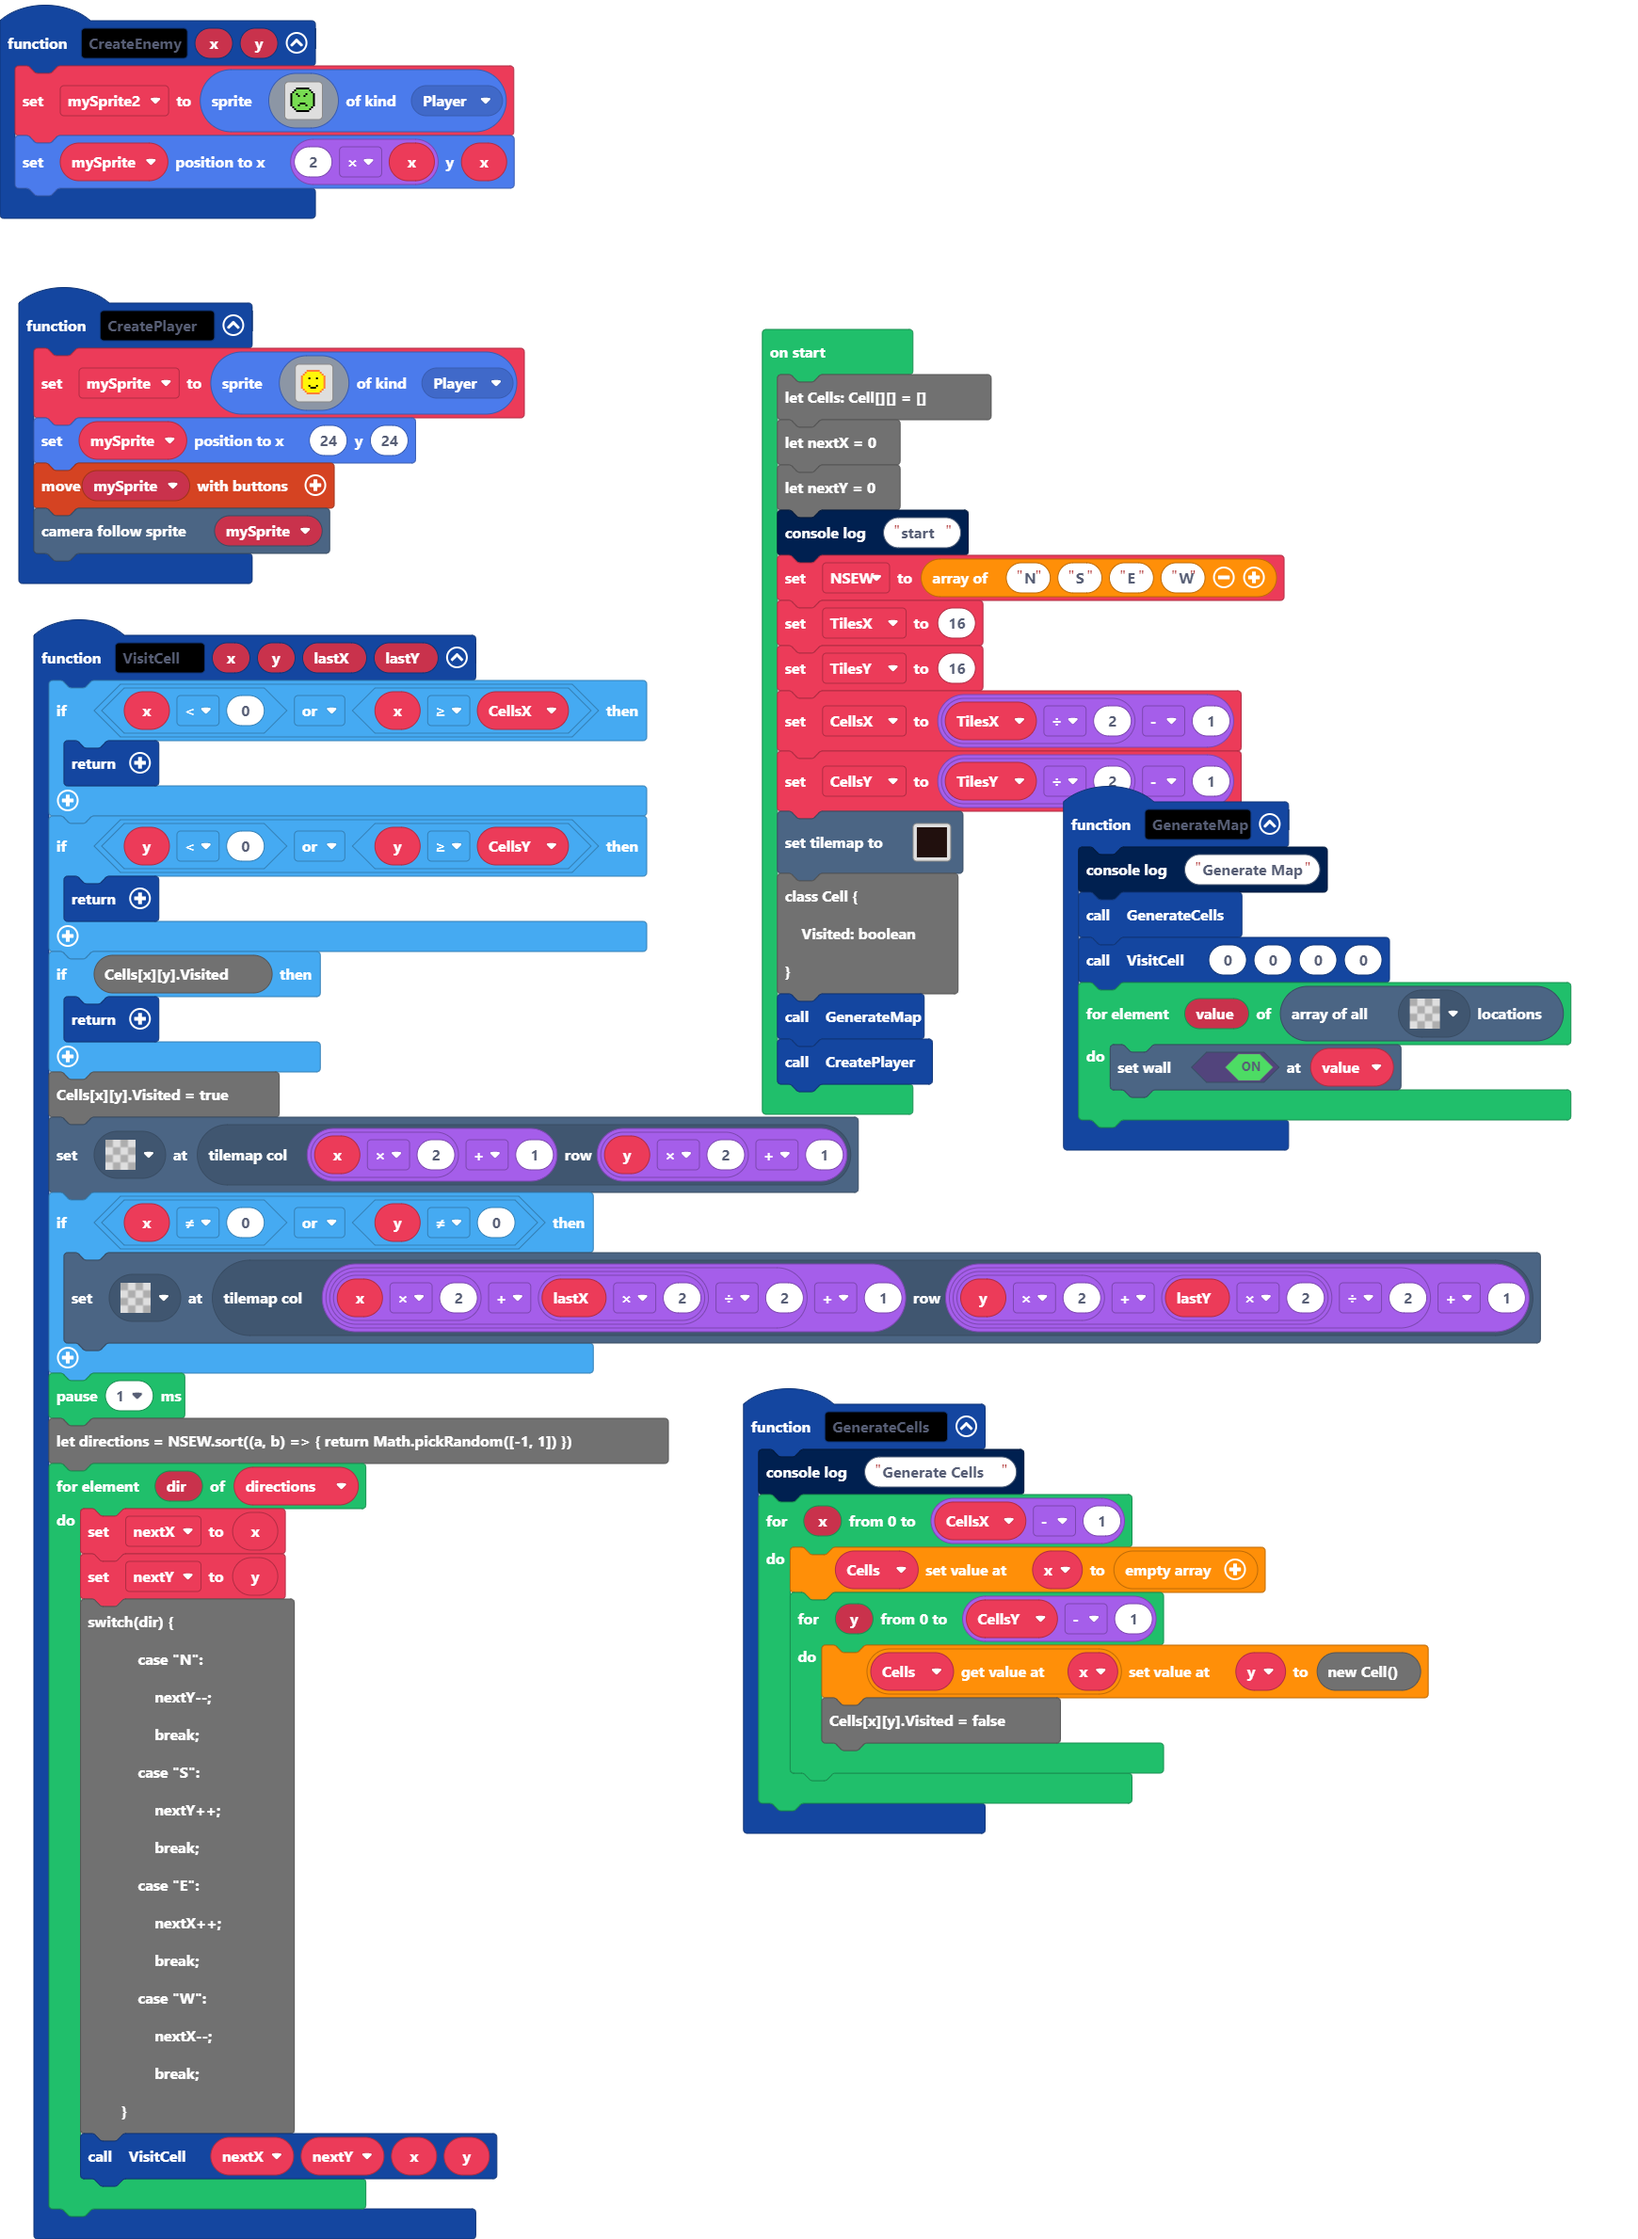
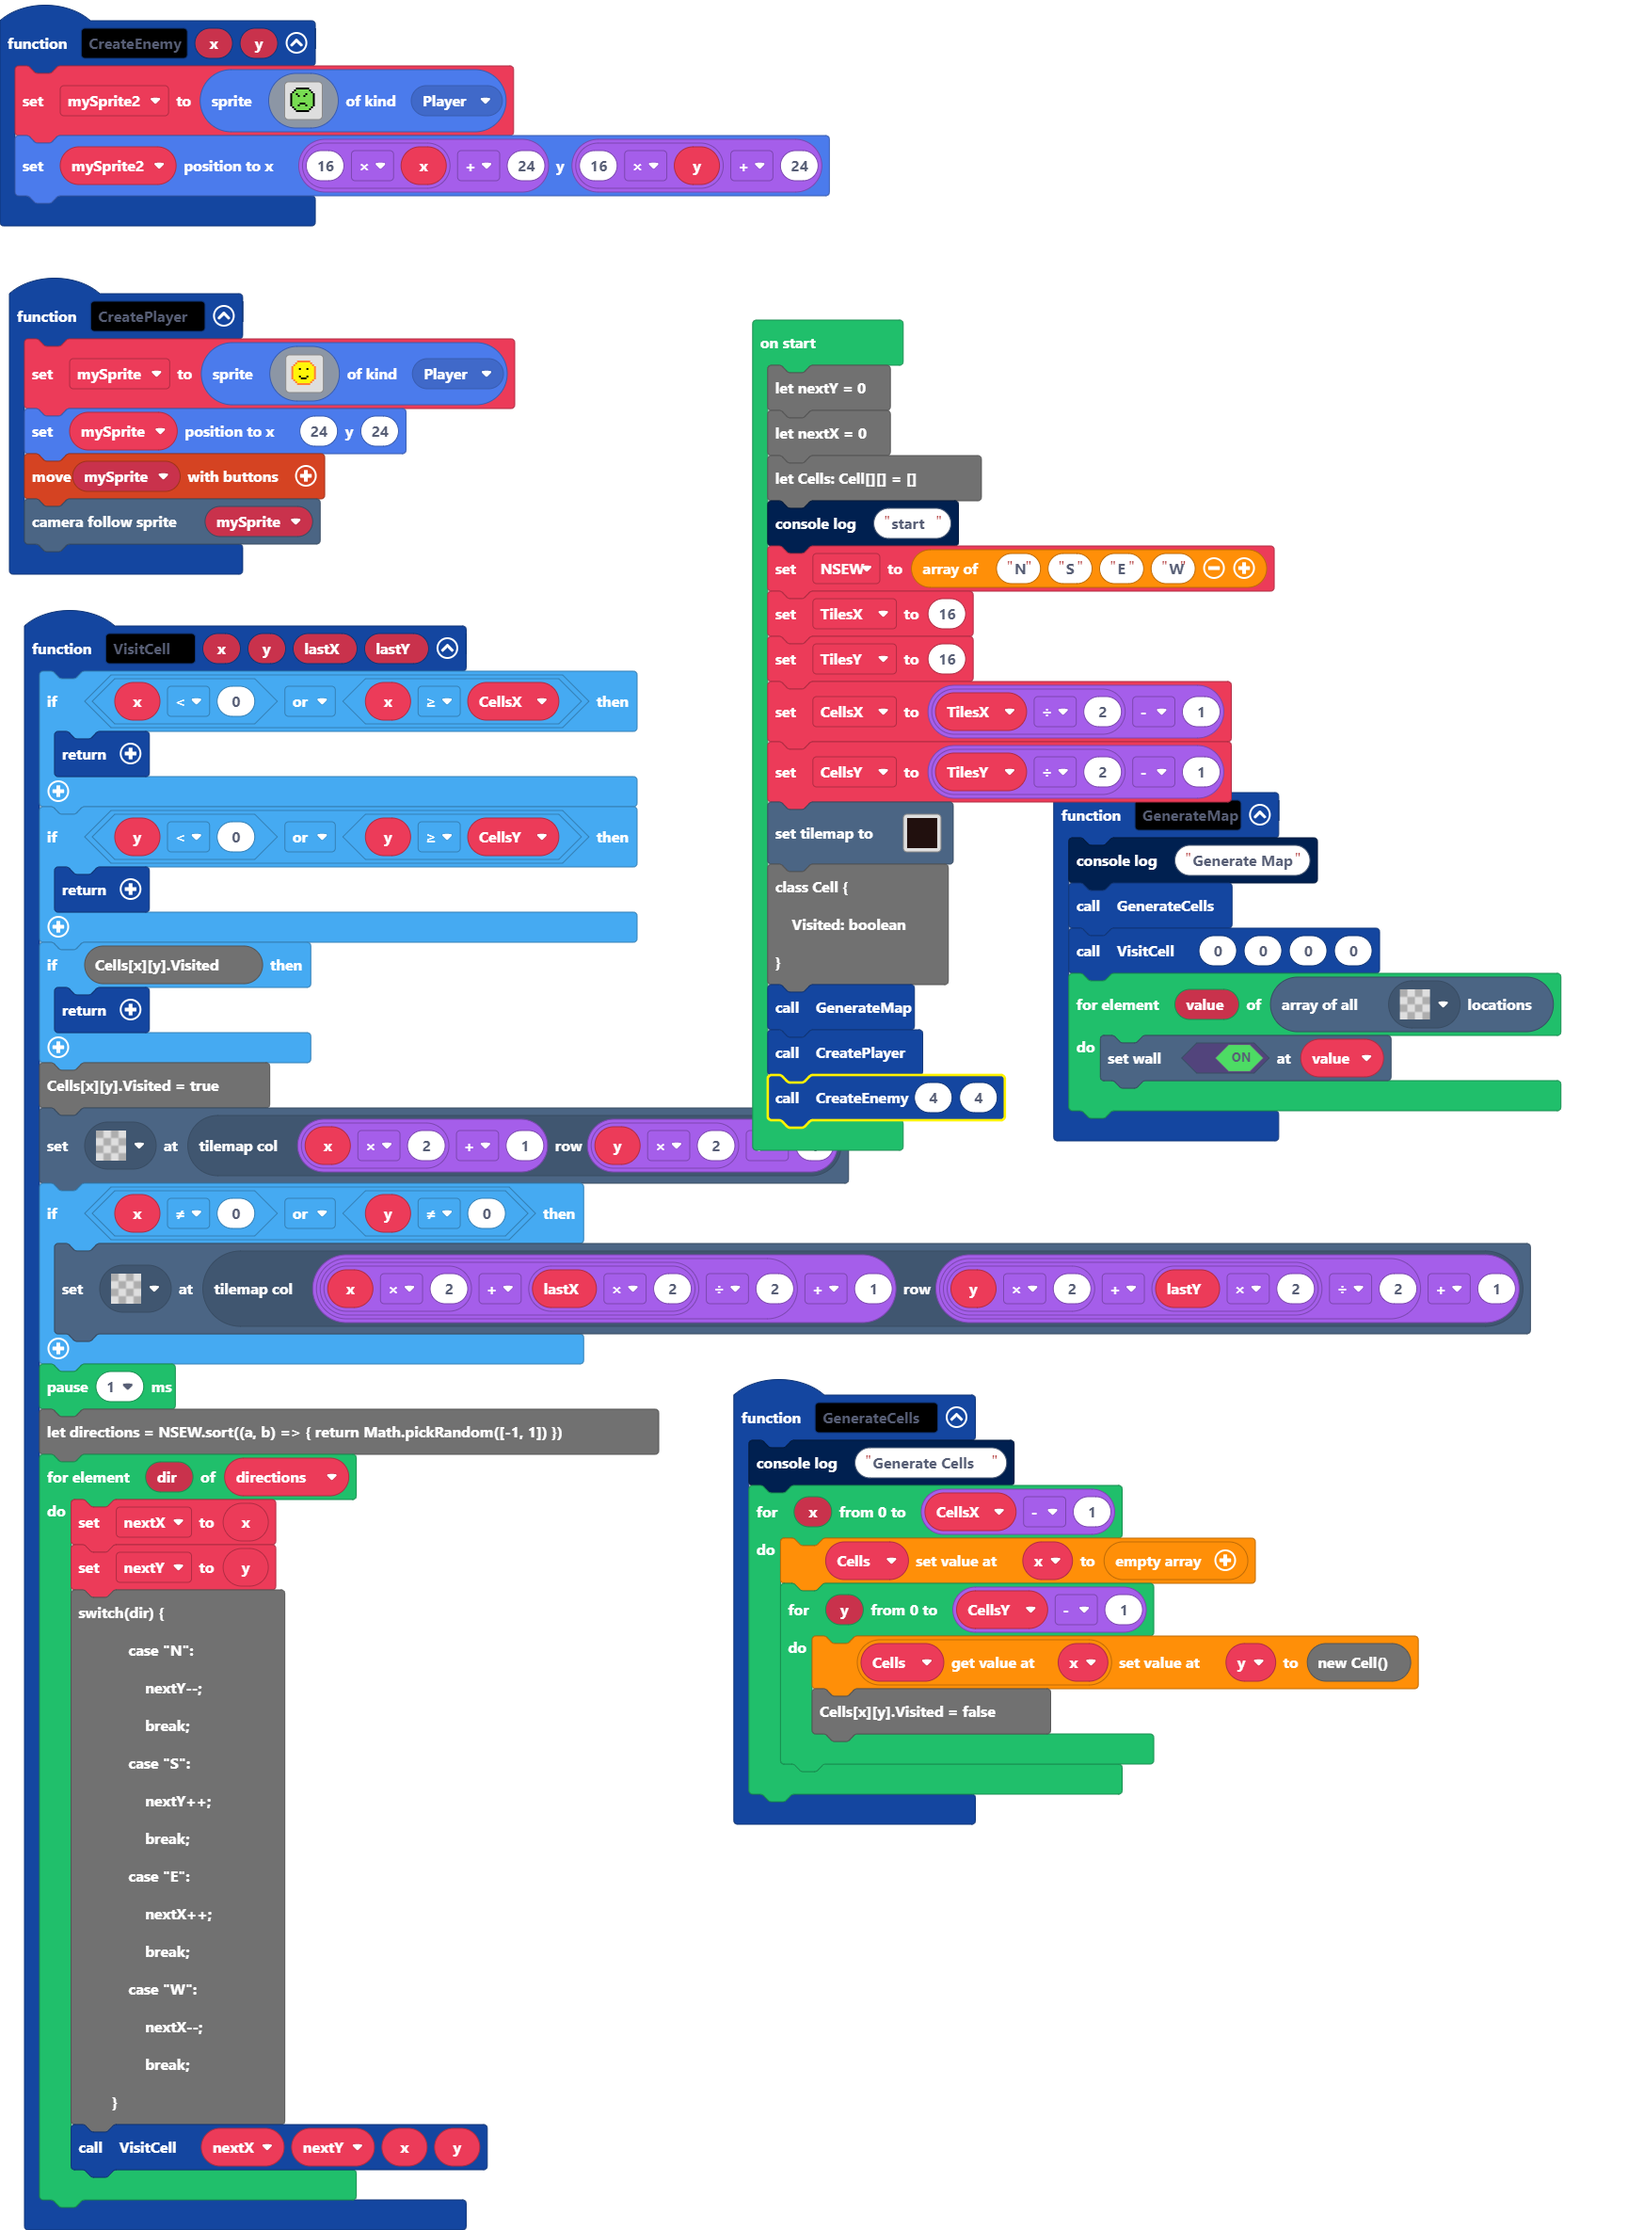
Enemy position

Changed region(s): [[0.0, 0.0, 0.9676, 1.0]]

diff --git a/main.ts b/main.ts
@@ -135,15 +135,15 @@ function CreateEnemy (x: number, y: number) {
 . . . . . . . . . . . . . . . . 
 . . . . . . . . . . . . . . . . 
 `, SpriteKind.Player)
-    mySprite.setPosition(2 * x, x)
+    mySprite2.setPosition(16 * x + 24, 16 * y + 24)
 }
 let mySprite2: Sprite = null
 let mySprite: Sprite = null
 let CellsY = 0
 let CellsX = 0
-let Cells: Cell[][] = []
-let nextX = 0
 let nextY = 0
+let nextX = 0
+let Cells: Cell[][] = []
 console.log("start")
 let NSEW = ["N", "S", "E", "W"]
 let TilesX = 16
@@ -178,3 +178,4 @@ class Cell {
 }
 GenerateMap()
 CreatePlayer()
+CreateEnemy(4, 4)
